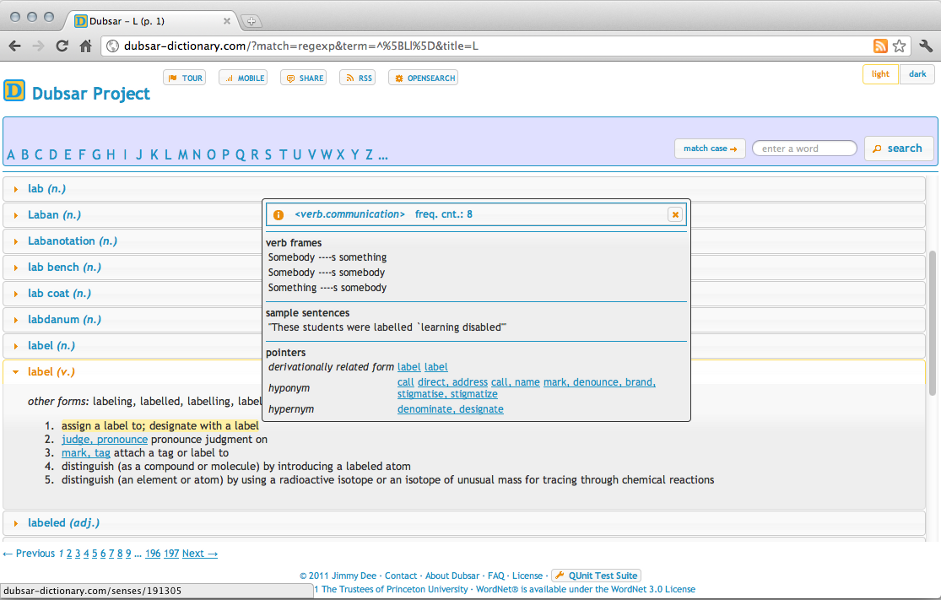
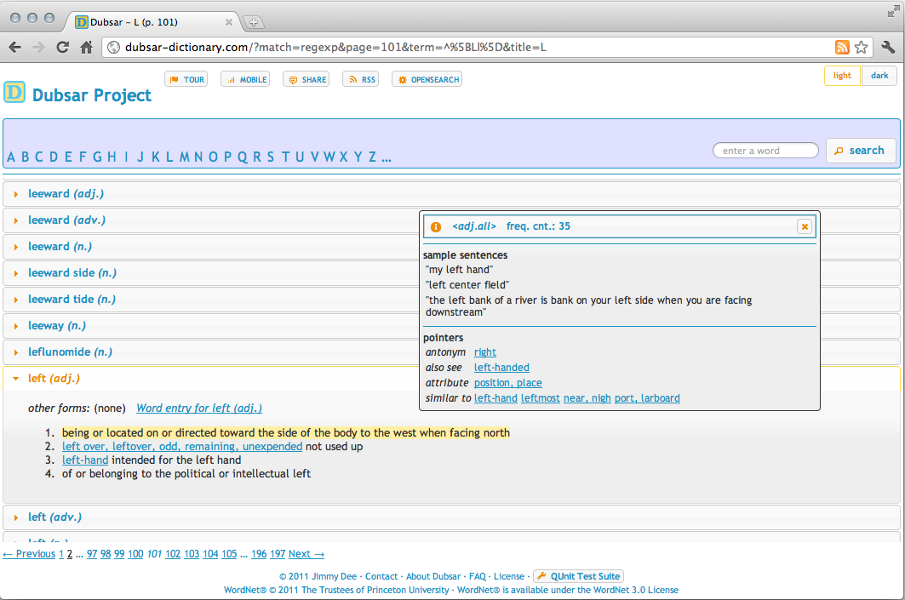
updated tour screenshots and sitemap

Changed region(s): [[0.0, 0.0, 1.0, 1.0]]

diff --git a/public/javascripts/application-ui.js b/public/javascripts/application-ui.js
@@ -192,11 +192,11 @@
       var id  = $(this).attr('id');
       var url = $(this).attr('href');
       var title = $('h3', this).text() || '';
-      $('<div id="'+id+'-dialog"><img src="'+url+'" height="600" width="940"/></div>').dialog({
+      $('<div id="'+id+'-dialog"><img src="'+url+'" height="600" width="905"/></div>').dialog({
         autoOpen   : false        ,
         dialogClass: 'tour-dialog',
         height     : 650,
-        width      : 970,
+        width      : 935,
         title      : title
       });
       $(this).click(function(){

diff --git a/app/helpers/application_helper.rb b/app/helpers/application_helper.rb
@@ -55,7 +55,7 @@ module ApplicationHelper
     tag = <<TAG
 <a href="#{image_path(name+'.png')}" title='#{name}' id='tour-#{name}'>
   <h3>#{CGI.escapeHTML description}</h3>
-  #{image_tag(name+'.png', :alt => name, :width => '157', :height => '100')}
+  #{image_tag(name+'.png', :alt => name, :width => '150', :height => '100')}
 </a>
 TAG
   end
